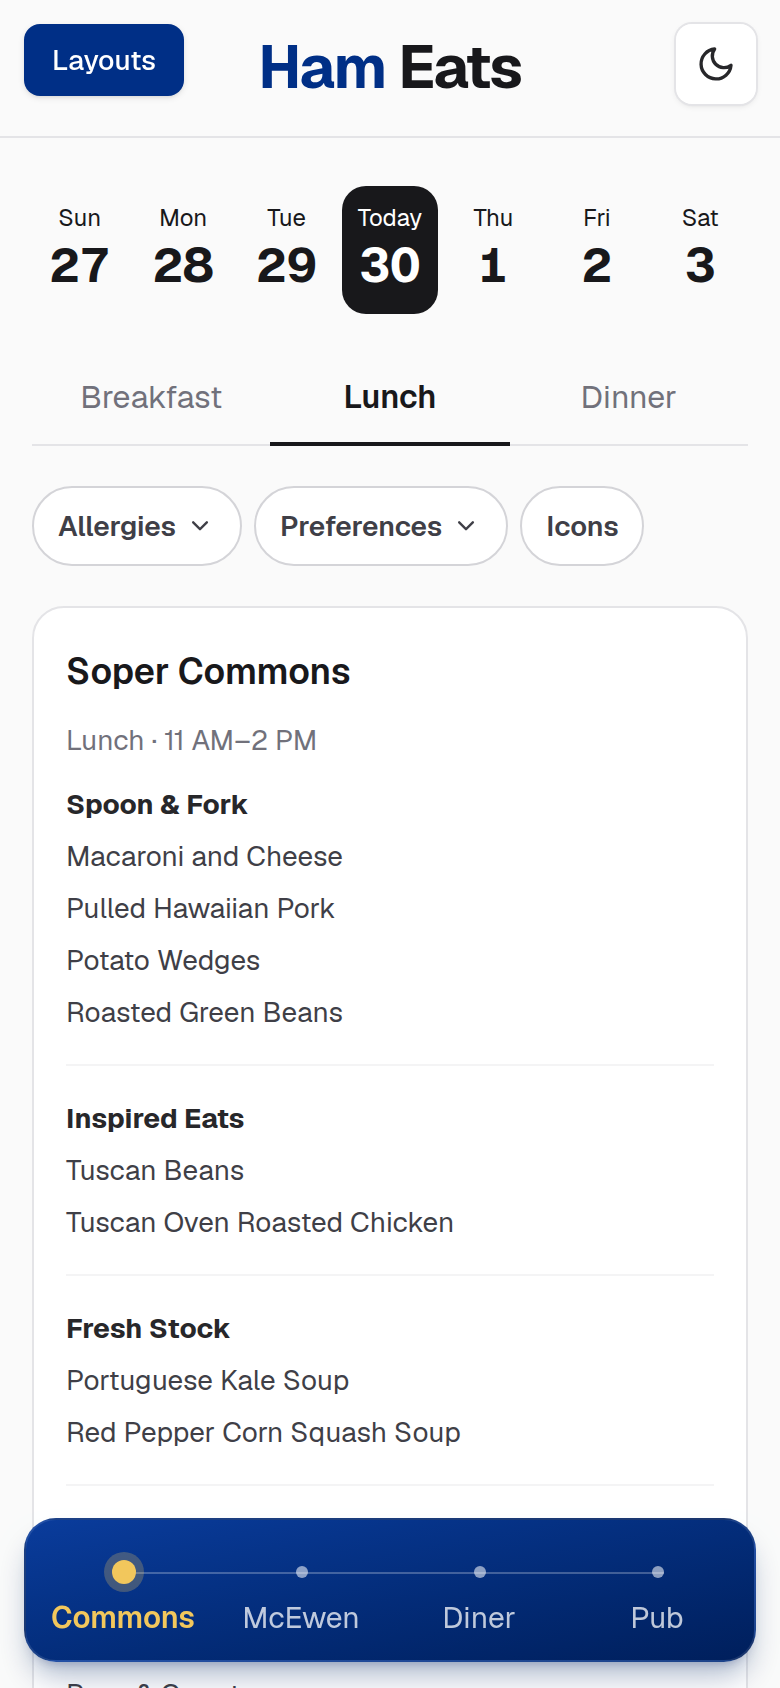
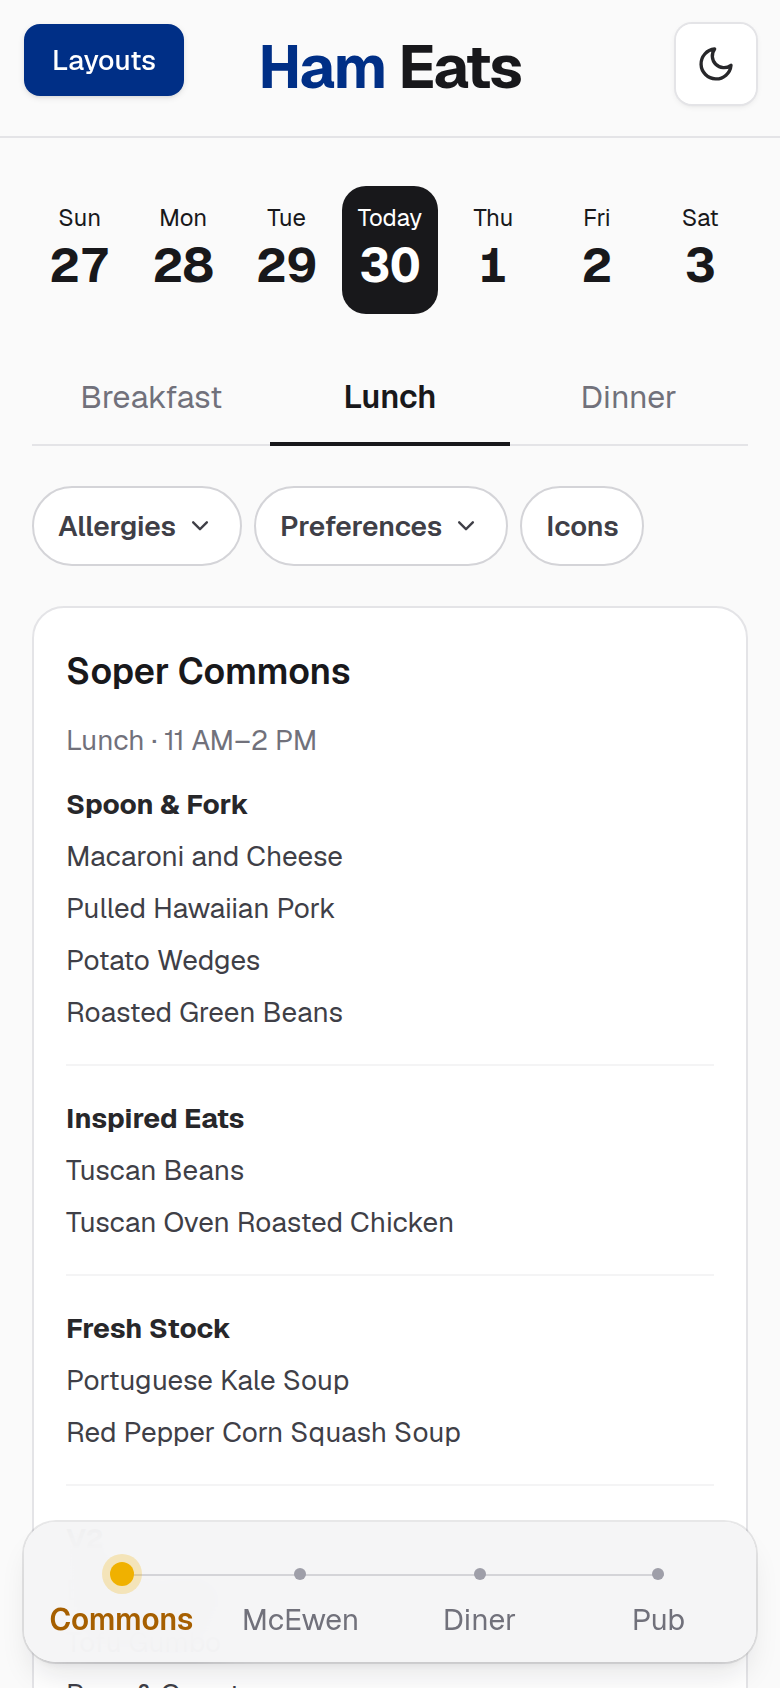
Restyle the Continental hall scroller in frosted light gray
Swap the blue card for a near-solid light gray (dark gray in dark mode)
with a thin edge and soft shadow, keeping the gold highlight on the hall
you're on. The gold label is a deeper shade so it stays readable on gray.

Changed region(s): [[0.0308, 0.8934, 0.9846, 1.0]]

diff --git a/web/components/home/NetNutritionHomeLayout.tsx b/web/components/home/NetNutritionHomeLayout.tsx
@@ -379,10 +379,11 @@ function HallScroller({ halls }: { halls: Hall[] }) {
       // scrolling near the bottom edge lag.
       className="sticky bottom-0 z-30 px-3 pb-[max(0.75rem,env(safe-area-inset-bottom))] standalone:pb-[max(2.75rem,calc(env(safe-area-inset-bottom)_+_2rem))] sm:hidden"
     >
-      {/* Hamilton blue with a buff-gold highlight, in both themes, so it stands off the white menu cards. */}
-      <div className="relative grid grid-cols-4 rounded-2xl border border-white/10 bg-gradient-to-br from-[#0a3c9c] to-[#001f5c] px-1 pb-2.5 pt-1 shadow-lg shadow-[#001f5c]/30">
+      {/* Frosted light gray with a crisp edge and a soft lift, so it reads apart from the white menu cards;
+          the hall you're on is picked out in gold. */}
+      <div className="relative grid grid-cols-4 rounded-2xl bg-zinc-100/95 px-1 pb-2.5 pt-1 shadow-lg shadow-zinc-900/10 ring-1 ring-zinc-900/10 backdrop-blur-md dark:bg-zinc-800/95 dark:shadow-black/40 dark:ring-white/10">
         {/* The line the dots sit on, from the first dot's center to the last's. */}
-        <div aria-hidden className="absolute left-[12.5%] right-[12.5%] top-[26px] h-px bg-white/25" />
+        <div aria-hidden className="absolute left-[12.5%] right-[12.5%] top-[26px] h-px bg-zinc-300 dark:bg-zinc-600" />
         {halls.map((h) => {
           const isActive = h.slug === active;
           return (
@@ -398,13 +399,14 @@ function HallScroller({ halls }: { halls: Hall[] }) {
               <span className="flex size-3 items-center justify-center">
                 <span
                   className={`rounded-full ${
-                    isActive ? "size-3 bg-[#f2c75c] ring-4 ring-[#f2c75c]/25" : "size-1.5 bg-white/55"
+                    isActive ? "size-3 bg-yellow-500 ring-4 ring-yellow-500/25" : "size-1.5 bg-zinc-400 dark:bg-zinc-500"
                   }`}
                 />
               </span>
               <span
                 className={`text-[15px] ${
-                  isActive ? "font-semibold text-[#f2c75c]" : "text-white/75"
+                  // A deeper gold for the label: bright gold text is too faint on light gray.
+                  isActive ? "font-semibold text-yellow-700 dark:text-yellow-400" : "text-zinc-500 dark:text-zinc-400"
                 }`}
               >
                 {SHORT_NAMES[h.slug] ?? h.name}
